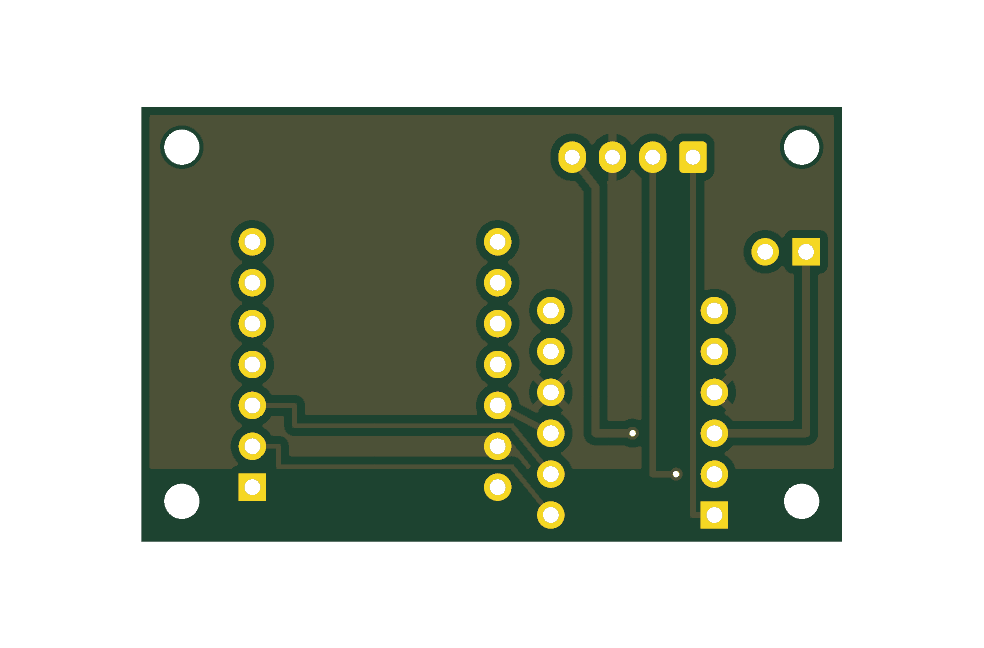
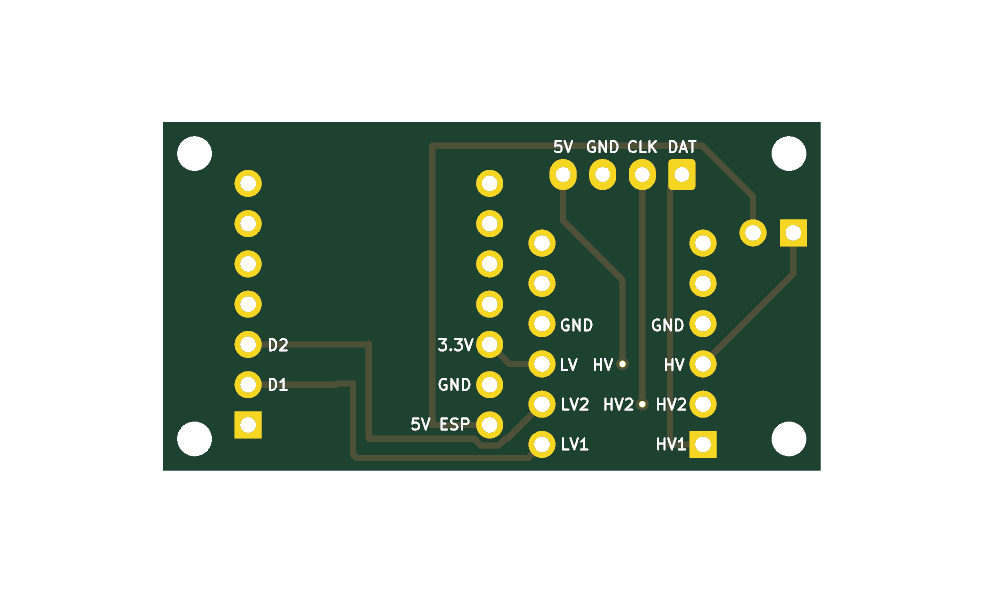
GH-0014: reduce size of PCB

diff --git a/README.md b/README.md
@@ -43,7 +43,7 @@ I've created a PCB to replace the perfboard. You solder in the ODU connector, th
 |---|---|
 | <img src="pcb/pcb-top.png" width="400"> | <img src="pcb/pcb-bottom.png" width="400"> |
 
-2-layer, 43.5 × 27 mm, 1.6 mm, ground plane on both sides, four M2 mounting holes.
+2-layer, 41.5 × 22 mm, 1.6 mm, ground plane on both sides, four M2 mounting holes.
 
 ## Configuration
 
